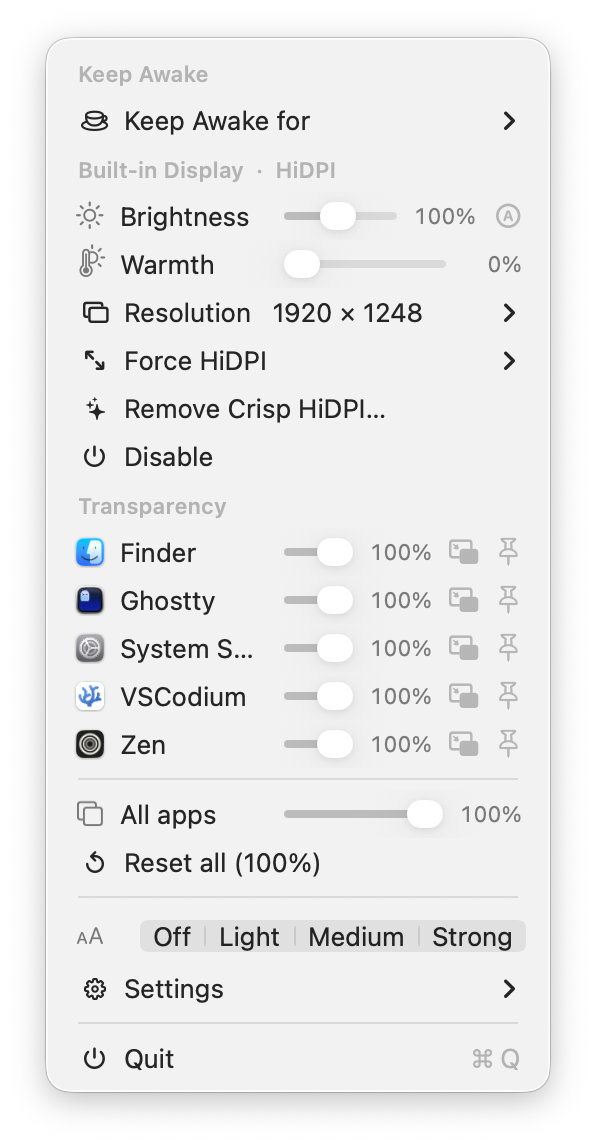
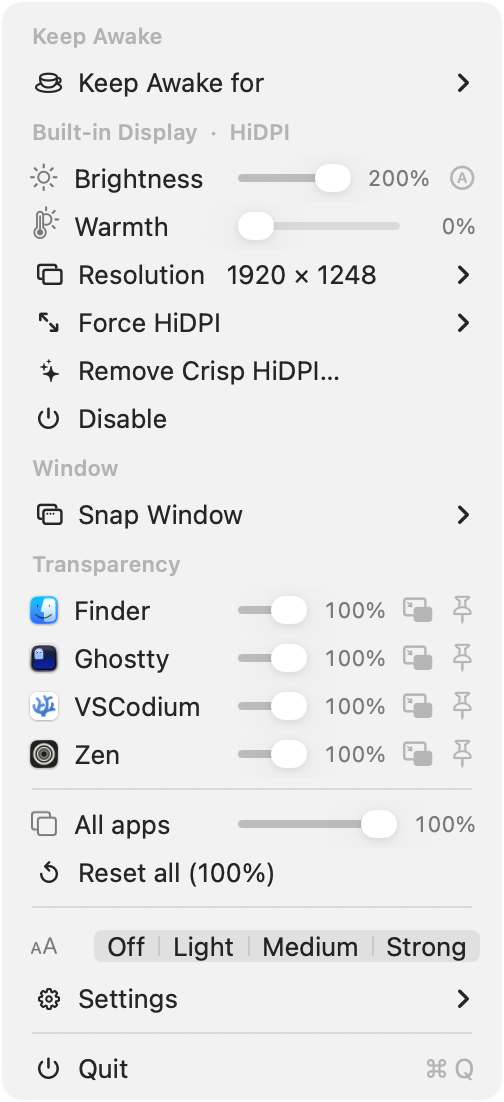
docs: window management in README + landing page; refresh menu screenshot, add snap-menu shot
New main-menu capture (now with the Window section), a Window→Snap Window
cascade showing the layout glyphs + ⌃⌥ shortcuts, README gallery + feature
row, landing-page feature card/gallery/how-it-works row, and corrected
brightness-boost copy (presents the full boost, not clamped).

diff --git a/docs/index.html b/docs/index.html
@@ -6,7 +6,7 @@
 <meta name="color-scheme" content="dark" />
 <meta name="theme-color" content="#13151a" />
 <title>DisplayDeck — total control of your Mac's displays</title>
-<meta name="description" content="A tiny macOS menu-bar app: disable screens, force HiDPI, boost brightness past 100%, warm the colors, make any window transparent or float, and keep your Mac awake. Free & open source, Apple Silicon." />
+<meta name="description" content="A tiny macOS menu-bar app: disable screens, force HiDPI, boost brightness past 100%, warm the colors, snap and tile windows, make any window transparent or float, and keep your Mac awake. Free & open source, Apple Silicon." />
 <meta property="og:type" content="website" />
 <meta property="og:url" content="https://oabdrabo.github.io/DisplayDeck/" />
 <meta property="og:title" content="DisplayDeck" />
@@ -216,7 +216,7 @@
     <div class="reveal in">
       <span class="eyebrow">macOS menu-bar app · Apple Silicon · open source</span>
       <h1>Total control of your <span class="warm">Mac's displays.</span></h1>
-      <p class="lede">Disable screens, force crisp HiDPI, push brightness past 100%, warm the colors, make any window float or go transparent — and keep your Mac awake. All from one coffee mug in your menu bar.</p>
+      <p class="lede">Disable screens, force crisp HiDPI, push brightness past 100%, warm the colors, snap windows into place, make any window float or go transparent — and keep your Mac awake. All from one coffee mug in your menu bar.</p>
       <div class="cta">
         <a class="btn download" href="https://github.com/oabdrabo/DisplayDeck/releases/latest/download/DisplayDeck.app.zip">
           <svg viewBox="0 0 16 16" fill="currentColor" aria-hidden="true"><path d="M8 1a1 1 0 0 1 1 1v6.59l2.3-2.3a1 1 0 1 1 1.4 1.42l-4 4a1 1 0 0 1-1.4 0l-4-4a1 1 0 0 1 1.4-1.42L7 8.59V2a1 1 0 0 1 1-1Zm-5 12a1 1 0 1 0 0 2h10a1 1 0 1 0 0-2H3Z"/></svg>
@@ -251,14 +251,15 @@
   <div class="wrap">
     <div class="head reveal">
       <div class="kicker">What it does</div>
-      <h2>Six tools, one menu.</h2>
+      <h2>Total display &amp; window control, one menu.</h2>
       <p>Each one leans on a private macOS framework to do something the system settings won't let you.</p>
     </div>
     <div class="feats reveal">
       <div class="feat"><span class="tag">DISPLAY</span><h3>Disable any screen</h3><p>Turn off the built-in panel in clamshell or headless setups so it stays dark when the lid opens. Auto-disable on external connect — with a failsafe that re-enables it if a disconnect would leave you with no usable screen.</p></div>
       <div class="feat"><span class="tag">SCALING</span><h3>Force HiDPI</h3><p>Add crisp, retina-scaled resolutions to displays that don't natively offer them, plus a "More Space" supersampling tier and optional persistent override plists.</p></div>
-      <div class="feat"><span class="tag">LIGHT</span><h3>Brightness + EDR boost</h3><p>Built-in and external brightness, an inline auto-brightness toggle, and a real boost above 100% — clamped to your panel's learned headroom, colors preserved.</p></div>
+      <div class="feat"><span class="tag">LIGHT</span><h3>Brightness + EDR boost</h3><p>Built-in and external brightness, an inline auto-brightness toggle, and a boost above 100% through an EDR overlay — large on XDR/HDR panels, a visible lift on standard ones.</p></div>
       <div class="feat"><span class="tag">COLOR</span><h3>Warmth</h3><p>A per-display color-temperature slider, f.lux style: neutral 6500&nbsp;K down to a warm ~3400&nbsp;K via gamma ramps. Restores native color at zero.</p></div>
+      <div class="feat"><span class="tag">TILING</span><h3>Window snapping</h3><p>Tile the focused window to halves, quarters, thirds, maximize or center — with global ⌃⌥ shortcuts, drag-to-edge snapping, and a menu of layout glyphs. No SIP changes needed.</p></div>
       <div class="feat"><span class="tag">WINDOWS</span><h3>Transparency, float &amp; PiP</h3><p>Set any app's opacity, add frosted-glass blur, keep a window on top, or shrink one into a still-usable floating corner.</p></div>
       <div class="feat"><span class="tag">POWER</span><h3>Keep awake</h3><p>An IOKit caffeine assertion so your Mac and its display won't sleep — indefinitely, or for a duration you pick. Left-click the mug to toggle.</p></div>
       <div class="feat"><span class="tag">TEXT</span><h3>Text smoothing</h3><p>Tune macOS's grayscale antialiasing (Off → Strong) so text isn't thin or fuzzy on external, non-Retina, or scaled monitors.</p></div>
@@ -275,6 +276,7 @@
       <p>Real captures — the menu lives where every other menu-bar app does, and the submenus stay out of your way until you need them.</p>
     </div>
     <div class="gallery reveal">
+      <figure><img src="assets/screenshots/windowsnap.png" alt="Window snap menu with layout glyphs" /><figcaption>window snapping · layout glyphs</figcaption></figure>
       <figure><img src="assets/screenshots/keepawake.png" alt="Keep-awake duration submenu" /><figcaption>keep-awake durations</figcaption></figure>
       <figure><img src="assets/screenshots/resolution.png" alt="Curated resolution picker" /><figcaption>resolution picker · ★ native</figcaption></figure>
       <figure><img src="assets/screenshots/forcehidpi.png" alt="Force HiDPI sizes submenu" /><figcaption>force HiDPI · more space</figcaption></figure>
@@ -297,7 +299,8 @@
       <div class="row"><span class="what">Disable display</span><span class="api"><b>CGSConfigureDisplayEnabled</b> — flips a screen off at the window-server level</span></div>
       <div class="row"><span class="what">Force HiDPI</span><span class="api">mirrors the panel onto a private <b>SLVirtualDisplay</b> + writes display-override plists</span></div>
       <div class="row"><span class="what">Warmth</span><span class="api"><b>CGSetDisplayTransferByTable</b> — per-channel gamma ramps</span></div>
-      <div class="row"><span class="what">Brightness boost</span><span class="api">a borderless <b>CAMetalLayer</b> EDR overlay, clamped each frame to live headroom</span></div>
+      <div class="row"><span class="what">Brightness boost</span><span class="api">a borderless <b>CAMetalLayer</b> EDR overlay (multiply blend) that drives the panel past 100%</span></div>
+      <div class="row"><span class="what">Window snapping</span><span class="api">tiles the focused window through the Accessibility API + global <b>RegisterEventHotKey</b> hot keys</span></div>
       <div class="row"><span class="what">Transparency &amp; blur</span><span class="api">a scripting addition injected into Dock calling <b>SLSSetWindowAlpha</b> over a private socket</span></div>
       <div class="row"><span class="what">Picture-in-Picture</span><span class="api">resizes the real window through the Accessibility API (<b>AXUIElement</b>)</span></div>
     </div>

diff --git a/README.md b/README.md
@@ -48,9 +48,13 @@ The menu-bar mug:
 
 <p align="center"><img src="assets/screenshots/menubar.png" height="26" alt="Menu-bar mug icon" /></p>
 
-The menu — per-display **Brightness** (with the inline **Ⓐ** auto-brightness toggle) and **Warmth** sliders, and per-app **Transparency** rows with frosted-glass, keep-on-top, and picture-in-picture toggles:
+The menu — per-display **Brightness** (with the inline **Ⓐ** auto-brightness toggle) and **Warmth** sliders, a **Window** snapping section, and per-app **Transparency** rows with frosted-glass, keep-on-top, and picture-in-picture toggles:
 
 <p align="center"><img src="assets/screenshots/menu.png" width="300" alt="Main menu" /></p>
+
+**Window snapping** — tile the focused window to halves, quarters, thirds, maximize or center, each with a layout glyph and a global `⌃⌥` shortcut:
+
+<p align="center"><img src="assets/screenshots/windowsnap.png" width="430" alt="Window snap menu with layout glyphs" /></p>
 
 Submenus — Keep-Awake durations, the curated **Resolution** picker (★ = panel-native), the **Force HiDPI** "More Space" tier, and the grouped **Settings**:
 